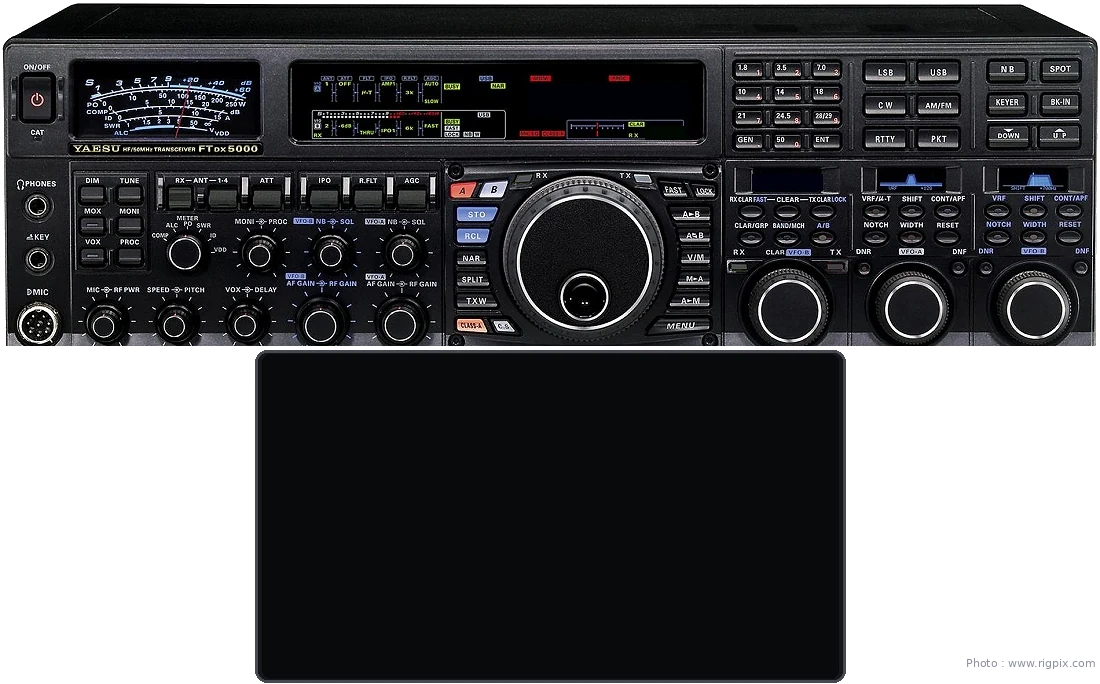
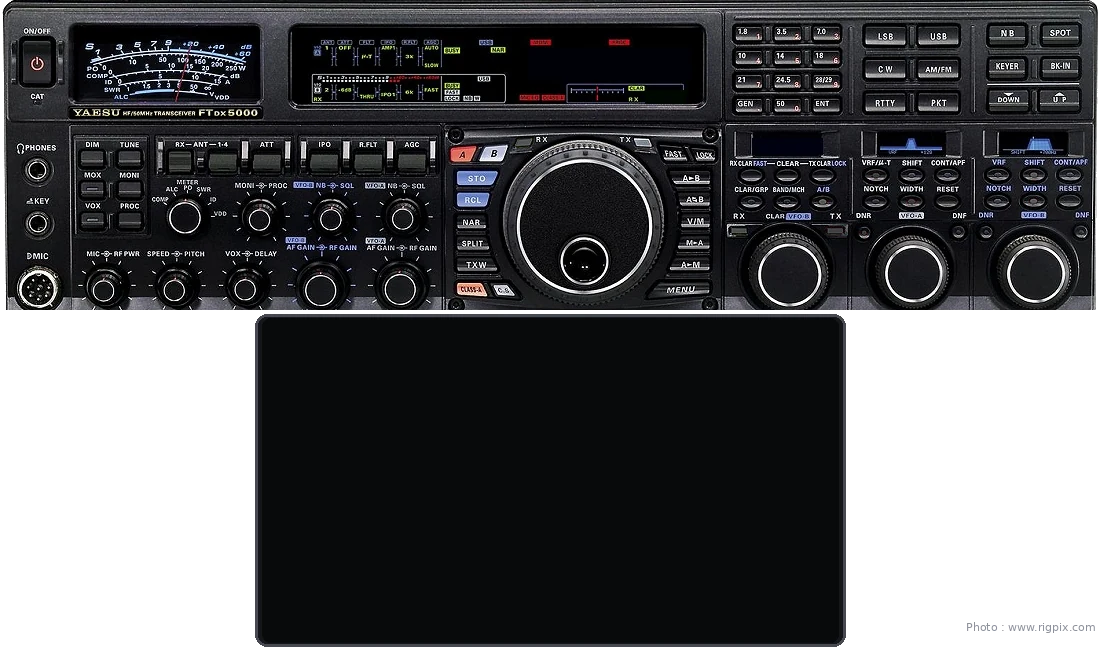
0.37.232 : Instance de test, face FTDX5000 plus compacte
Claude-Session: https://claude.ai/code/session_012Nhne2whzwcBifbkas5HRy

Changed region(s): [[0.0, 0.0, 1.0, 0.5247], [0.8964, 0.9568, 0.9891, 0.9877]]

diff --git a/server.js b/server.js
@@ -57,6 +57,8 @@ const DEFAULTS = {
   clusterHost: 'op0p.be',
   clusterPort: 8000,
   clusterCall: '',
+  // clusterSpot : false = aucun spot envoyé au cluster (instance de test, deploy/install-test.sh)
+  clusterSpot: true,
   clusterCmds: ['set/skimmer'],
   digiAlcMax: 30, // émission numérique : ALC maximal (%) au-delà duquel la page Station baisse le niveau BF ; 0 = pas de limite
   ftxWatchdogMinutes: 6, // émission auto FT8 / FT4 / FT2 : arrêt si le même message part depuis ce temps (WSJT-X : 6 min)
@@ -815,6 +817,7 @@ const DXCC = require('./lib/dxcc.js');
 // Réservé aux comptes qui émettent ; au plus 1 spot / 20 s et 30 / heure par opérateur.
 function clusterSpot(conn, callIn, khzIn, cmtIn) {
   if (!conn.user.tx || conn.user.rxOnly) return send(conn, { t: 'notice', level: 'error', msg: 'Spot : réservé aux comptes autorisés à émettre' });
+  if (cfg.clusterSpot === false) return send(conn, { t: 'notice', level: 'warn', msg: 'Spot non envoyé : les spots au DX cluster sont coupés sur ce serveur (instance de test)' });
   const host = String(cfg.clusterHost || '').trim();
   if (!host) return send(conn, { t: 'notice', level: 'error', msg: 'Spot impossible : DX cluster non configuré' });
   const op = String(conn.user.call || '').toUpperCase();

diff --git a/public/faces/ftdx5000.js b/public/faces/ftdx5000.js
@@ -1,7 +1,7 @@
 /*
  * faces/ftdx5000.js — face avant du Yaesu FTDX5000 pour la page https://remote.op0p.be/ftdx5000
  *
- * Image : faces/ftdx5000.webp (1100 × 684) = photo de la face avant (www.rigpix.com, fond rendu transparent, pieds coupés)
+ * Image : faces/ftdx5000.webp (1100 × 648, à partir de y = 36 : dessus du TRX coupé) = photo de la face avant (www.rigpix.com, fond rendu transparent, pieds coupés)
  * en haut (1100 × 346), et dessous le cadre de l'écran de la page (le FTDX5000 n'a qu'un petit afficheur : l'écran de la
  * page — fréquences, mètres, scope de la BF reçue — est posé sous la face, comme un moniteur de station).
  * Positions en pixels de cette image (x, y = coin haut gauche ; cx, cy = centre). ?zones=1 : contours visibles.
@@ -54,6 +54,9 @@
     image: '/faces/ftdx5000.webp',
     w: 1100,
     h: 684,
+    // Le dessus du TRX (perspective) n'est pas gardé : l'image commence au bord de la face avant (y = 36) ;
+    // les positions ci-dessous restent celles de la photo entière
+    img: { x: 0, y: 36, w: 1100, h: 648 },
     // Écran de la page : dans le cadre dessiné sous la face avant
     lcd: { x: 265, y: 356, w: 570, h: 321 },
     // Cases de l'écran (pas de R.FLT par CAT) ; préampli IPO1 / AMP1 / AMP2 / IPO2

diff --git a/GUIDE-ADMINISTRATEUR.md b/GUIDE-ADMINISTRATEUR.md
@@ -96,6 +96,23 @@ sudo bash /opt/remote-station/deploy/install.sh
 
 ---
 
+### Instance de test (test.op0p.be)
+
+Un 2ᵉ serveur sur le même VPS, indépendant de celui du club : dossier `/opt/remote-station-test`, service `remote-station-test`, port 9001, son propre site. On y essaie un TRX (bouton « Tester sans radio (simulation) » de sa page Station, ou le vrai TRX d'un beta-testeur branché chez lui) **sans toucher à la station du club**.
+
+1. Chez l'hébergeur du domaine (op0p.be) : enregistrement **A** `test` → adresse IP du VPS (la même que `remote`).
+2. Sur le VPS, une fois le DNS en place :
+   ```
+   sudo bash /opt/remote-station/deploy/install-test.sh --domaine test.op0p.be --email votre@adresse
+   ```
+3. Ensuite, chaque mise à jour du serveur du club (`install.sh`) met aussi l'instance de test à la même version (ses données gardées).
+
+- Repris du serveur du club **une seule fois**, à la création : `config.json` (nom « TEST · … », port 9001, **jeton de station neuf**) et `users.json` (mêmes comptes et mots de passe). Rien ne repart vers le serveur du club.
+- Sur l'instance de test : carnet de test séparé, pas de logs en ligne, **pas de PSK Reporter**, **pas de spot envoyé au DX cluster** (`clusterSpot: false` ; les spots sont lus sous ON5VL-8 pour ne pas gêner la liaison ON5VL-7 du club).
+- Essai sans TRX : `https://test.op0p.be/station` → choisir le TRX (ex. Yaesu FTDX5000) → **Tester sans radio (simulation)** ; puis `https://test.op0p.be/ftdx5000` ou le dashboard dans un autre onglet.
+- Beta-testeur avec son TRX : il ouvre `https://test.op0p.be/station` chez lui (compte administrateur nécessaire pour la page Station), choisit son TRX et son port.
+- Journal : `sudo journalctl -u remote-station-test -f` · arrêt et retrait du service : `sudo bash /opt/remote-station/deploy/install-test.sh --retirer` (le dossier reste).
+
 ## 4. Gérer les membres
 
 Les commandes se lancent dans PuTTY avec `sudo`. Le chemin complet permet de les taper depuis n'importe quel dossier.

diff --git a/LISEZMOI.md b/LISEZMOI.md
@@ -1,4 +1,4 @@
-# Remote Station — v0.37.231 (CAT + écoute de la BF)
+# Remote Station — v0.37.232 (CAT + écoute de la BF)
 
 > **Administrateurs : le guide à jour est [GUIDE-ADMINISTRATEUR.md](GUIDE-ADMINISTRATEUR.md).** Ce fichier garde les notes techniques détaillées ; certaines étapes y décrivent d'anciennes versions (jeton à coller, audio 8 kHz…).
 
@@ -90,7 +90,7 @@ L'émission est **désactivée par défaut** (`"allowTx": false`). On l'active s
 
 ## 1. Installation sur le VPS VEX
 
-Copie `remote-station-0.37.231.tar.gz` dans `/home/on6dp` avec WinSCP, puis dans PuTTY :
+Copie `remote-station-0.37.232.tar.gz` dans `/home/on6dp` avec WinSCP, puis dans PuTTY :
 
 ```bash
 # Node.js (Debian 13 fournit la version 20, ça suffit)
@@ -98,7 +98,7 @@ sudo apt update && sudo apt install -y nodejs
 node -v
 
 # Fichiers + utilisateur système dédié
-sudo tar -xzf /home/on6dp/remote-station-0.37.231.tar.gz -C /opt
+sudo tar -xzf /home/on6dp/remote-station-0.37.232.tar.gz -C /opt
 sudo useradd --system --home /opt/remote-station --shell /usr/sbin/nologin remotestation
 sudo chown -R remotestation:remotestation /opt/remote-station
 cd /opt/remote-station

diff --git a/releases/README.md b/releases/README.md
@@ -2,6 +2,7 @@
 
 | Version | Windows 10 / 11 | Serveur Linux (VPS) | Notes |
 |---|---|---|---|
+| 0.37.232 | [RemoteStation-Setup-0.37.232.exe](0.37.232/RemoteStation-Setup-0.37.232.exe) | [remote-station-0.37.232.tar.gz](0.37.232/remote-station-0.37.232.tar.gz) | Ctrl+F5 sur la page /ftdx5000 — [empreintes SHA-256](0.37.232/SHA256SUMS.txt) |
 | 0.37.231 | [RemoteStation-Setup-0.37.231.exe](0.37.231/RemoteStation-Setup-0.37.231.exe) | [remote-station-0.37.231.tar.gz](0.37.231/remote-station-0.37.231.tar.gz) | Ctrl+F5 sur la page /ftdx5000 — [empreintes SHA-256](0.37.231/SHA256SUMS.txt) |
 | 0.37.230 | [RemoteStation-Setup-0.37.230.exe](0.37.230/RemoteStation-Setup-0.37.230.exe) | [remote-station-0.37.230.tar.gz](0.37.230/remote-station-0.37.230.tar.gz) | Ctrl+F5 sur le dashboard et la page Station — [empreintes SHA-256](0.37.230/SHA256SUMS.txt) |
 | 0.37.230 | [RemoteStation-Setup-0.37.230.exe](0.37.230/RemoteStation-Setup-0.37.230.exe) | [remote-station-0.37.230.tar.gz](0.37.230/remote-station-0.37.230.tar.gz) | Ctrl+F5 sur le dashboard et la page Station — [empreintes SHA-256](0.37.230/SHA256SUMS.txt) |

diff --git a/CHANGELOG.md b/CHANGELOG.md
@@ -2,6 +2,7 @@
 
 ## v0.15 — FT2
 
+- **0.37.232** — Instance de test (deploy/install-test.sh : test.op0p.be, port 9001, sans spot cluster ni PSK Reporter ni logs en ligne, mise à jour avec le serveur du club) ; page /ftdx5000 : dessus du TRX coupé (place gagnée en hauteur)
 - **0.37.231** — Page face avant /ftdx5000 (photo, touches, boutons, afficheurs en direct, écran de la page sous la face) ; pilote FTDX5000 : SQL / NB du SUB, MONI, KEY SPEED, PITCH, VOX GAIN / DELAY
 - **0.37.230** — Nouveau TRX : Yaesu FTDX5000 (pilote CAT RS-232, double récepteur, SPLIT par FT, phonie à distance par la prise DATA) ; barre du haut : seulement le TRX en service, liste dans le menu Station
 - **0.37.230** — Nouveau TRX : Yaesu FTDX5000 (pilote CAT RS-232, double récepteur, SPLIT par FT, phonie à distance par la prise DATA) ; barre du haut : seulement le TRX en service, liste dans le menu Station

diff --git a/README.md b/README.md
@@ -11,7 +11,7 @@ Pilotage à distance des transceivers du club depuis un navigateur.
  TRX ──USB──► PC du club (Chrome, page /station) ──internet──► VPS remote.op0p.be ◄── membres (navigateur)
 ```
 
-**Version actuelle : 0.37.231** — historique dans [CHANGELOG.md](CHANGELOG.md).
+**Version actuelle : 0.37.232** — historique dans [CHANGELOG.md](CHANGELOG.md).
 
 **Télécharger une version prête à installer** : dossier [releases/](releases/README.md) du dépôt. Chaque version y a son archive serveur
 `remote-station-X.Y.Z.tar.gz`, son installateur Windows `RemoteStation-Setup-X.Y.Z.exe` et le fichier `SHA256SUMS.txt` des empreintes.
